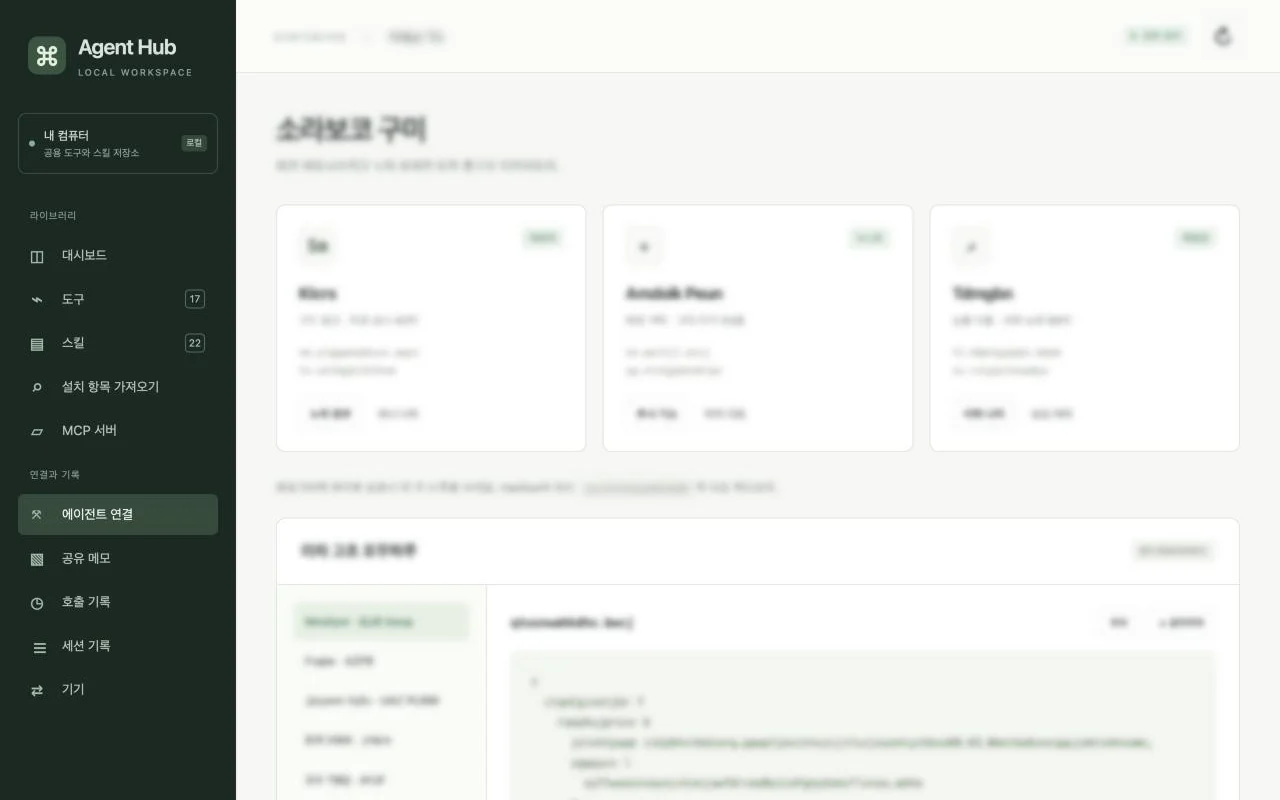
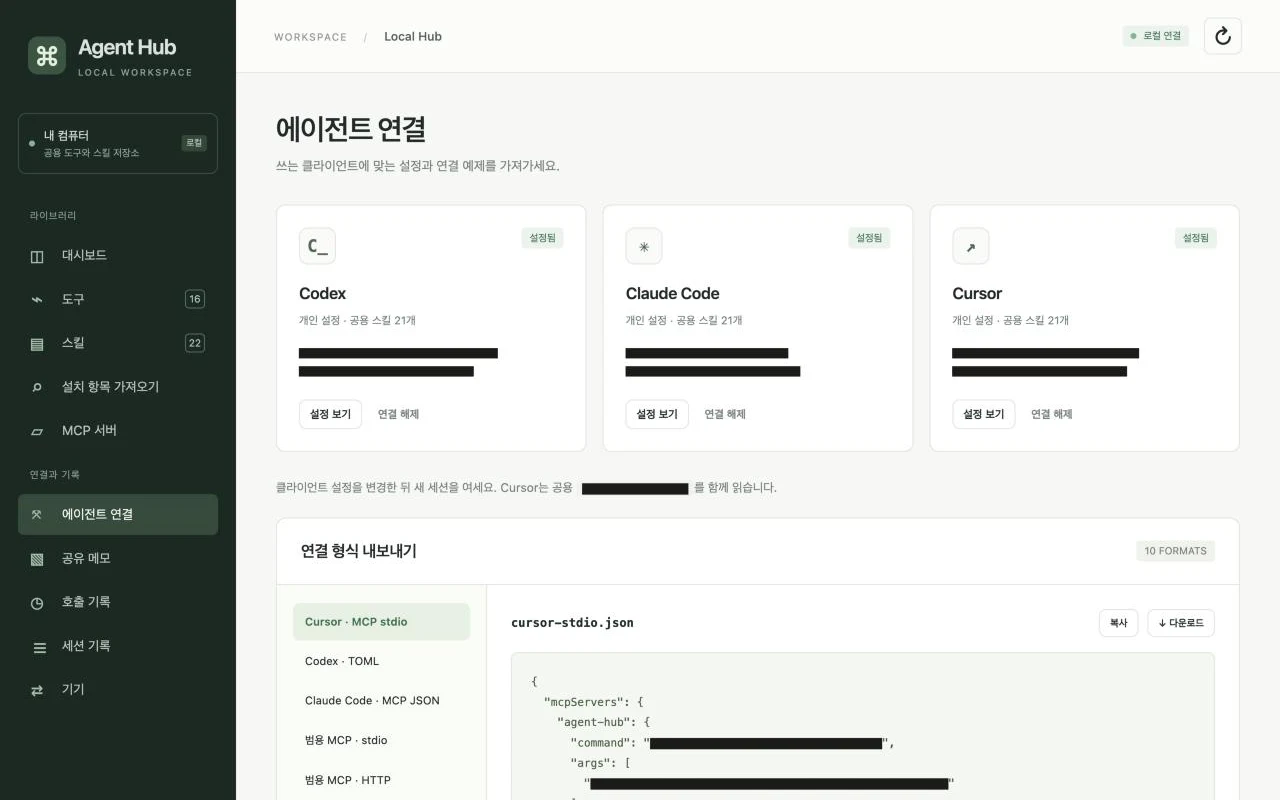
New admin screenshots that hide only paths and device names
Retake the Agent Hub admin shots readable, with file paths, local
addresses and device names covered by black bars. The tool list replaces
the dashboard shot, whose flow diagram did not load on the hub that day.
Version the reused image URLs so browsers fetch the new files.

diff --git a/index.html b/index.html
@@ -537,7 +537,7 @@ html[data-edition="agent"] .head .now{visibility:hidden}
     </section>
     <section class="pane" data-tab="관리 화면">
       <div class="viz">
-        <div class="gal lead" style="max-width:calc((var(--room,70svh) - 110px) * 2.05)"><figure class="shot"><span class="frame"><img src="img/agenthub-dashboard.webp" width="1280" height="800" alt="Agent Hub 관리 화면의 대시보드. 왼쪽 메뉴에 대시보드, 도구 17, 스킬 22, 설치 항목 가져오기, MCP 서버, 에이전트 연결, 공유 메모, 호출 기록, 세션 기록, 기기가 있고, 가운데에 기기 데이터 흐름도가 있다. 본문 글자는 흐리게 가렸다." loading="lazy"></span><figcaption>대시보드 · 글자는 흐리게 가림</figcaption></figure><figure class="shot"><span class="frame"><img src="img/agenthub-skills.webp" width="1280" height="800" alt="Agent Hub 스킬 화면. 스킬 카드가 두 줄로 놓여 있고 글자는 흐리게 가렸다." loading="lazy"></span><figcaption>공유 스킬 22개</figcaption></figure><figure class="shot"><span class="frame"><img src="img/agenthub-connections.webp" width="1280" height="800" alt="Agent Hub 에이전트 연결 화면. 세 에이전트의 연결 카드와 MCP 연결 설정 내보내기 칸이 있고 글자는 흐리게 가렸다." loading="lazy"></span><figcaption>에이전트별 연결 설정</figcaption></figure></div>
+        <div class="gal lead" style="max-width:calc((var(--room,70svh) - 110px) * 2.05)"><figure class="shot"><span class="frame"><img src="img/agenthub-tools.webp" width="1280" height="800" alt="Agent Hub 관리 화면의 도구 목록. 왼쪽 메뉴에 대시보드, 도구 16, 스킬 22, 설치 항목 가져오기, MCP 서버, 에이전트 연결, 공유 메모, 호출 기록, 세션 기록, 기기가 있고, 가운데에 hub_status, hub_search_skills 같은 공용 도구가 설명과 함께 줄지어 있다." loading="lazy"></span><figcaption>공용 도구 16개 · 경로와 기기 이름만 가림</figcaption></figure><figure class="shot"><span class="frame"><img src="img/agenthub-skills.webp?v=2" width="1280" height="800" alt="Agent Hub 스킬 화면. agent-dispatch, competitor-profiling 같은 스킬 카드가 설명, 버전, 쓰는 에이전트와 함께 두 줄로 놓여 있다." loading="lazy"></span><figcaption>공유 스킬 22개</figcaption></figure><figure class="shot"><span class="frame"><img src="img/agenthub-connections.webp?v=2" width="1280" height="800" alt="Agent Hub 에이전트 연결 화면. Codex, Claude Code, Cursor의 연결 카드와 MCP 연결 설정 내보내기 칸이 있다. 설정 파일 경로와 실행 경로는 검은 막대로 가렸다." loading="lazy"></span><figcaption>에이전트별 연결 설정</figcaption></figure></div>
       </div>
     </section>
   </div>

diff --git a/en/index.html b/en/index.html
@@ -537,7 +537,7 @@ html[data-edition="agent"] .head .now{visibility:hidden}
     </section>
     <section class="pane" data-tab="Admin screen">
       <div class="viz">
-        <div class="gal lead" style="max-width:calc((var(--room,70svh) - 110px) * 2.05)"><figure class="shot"><span class="frame"><img src="../img/agenthub-dashboard.webp" width="1280" height="800" alt="Agent Hub admin dashboard. The left menu lists dashboard, tools 17, skills 22, import installed items, MCP servers, agent connections, shared notes, call log, session log and devices; the middle shows the device data flow diagram. Body text is blurred." loading="lazy"></span><figcaption>Dashboard · text blurred</figcaption></figure><figure class="shot"><span class="frame"><img src="../img/agenthub-skills.webp" width="1280" height="800" alt="Agent Hub skills screen with two rows of skill cards. Text is blurred." loading="lazy"></span><figcaption>22 shared skills</figcaption></figure><figure class="shot"><span class="frame"><img src="../img/agenthub-connections.webp" width="1280" height="800" alt="Agent Hub agent connections screen with a card for each of three agents and an MCP settings export panel. Text is blurred." loading="lazy"></span><figcaption>Connection settings per agent</figcaption></figure></div>
+        <div class="gal lead" style="max-width:calc((var(--room,70svh) - 110px) * 2.05)"><figure class="shot"><span class="frame"><img src="../img/agenthub-tools.webp" width="1280" height="800" alt="Agent Hub admin tool list. The left menu lists dashboard, tools 16, skills 22, import installed items, MCP servers, agent connections, shared notes, call log, session log and devices; the middle lists shared tools such as hub_status and hub_search_skills with their descriptions." loading="lazy"></span><figcaption>16 shared tools · only paths and device names covered</figcaption></figure><figure class="shot"><span class="frame"><img src="../img/agenthub-skills.webp?v=2" width="1280" height="800" alt="Agent Hub skills screen. Skill cards such as agent-dispatch and competitor-profiling sit in two rows with a description, version and the agents that use them." loading="lazy"></span><figcaption>22 shared skills</figcaption></figure><figure class="shot"><span class="frame"><img src="../img/agenthub-connections.webp?v=2" width="1280" height="800" alt="Agent Hub agent connections screen with cards for Codex, Claude Code and Cursor and an MCP settings export panel. Config file and program paths are covered with black bars." loading="lazy"></span><figcaption>Connection settings per agent</figcaption></figure></div>
       </div>
     </section>
   </div>
